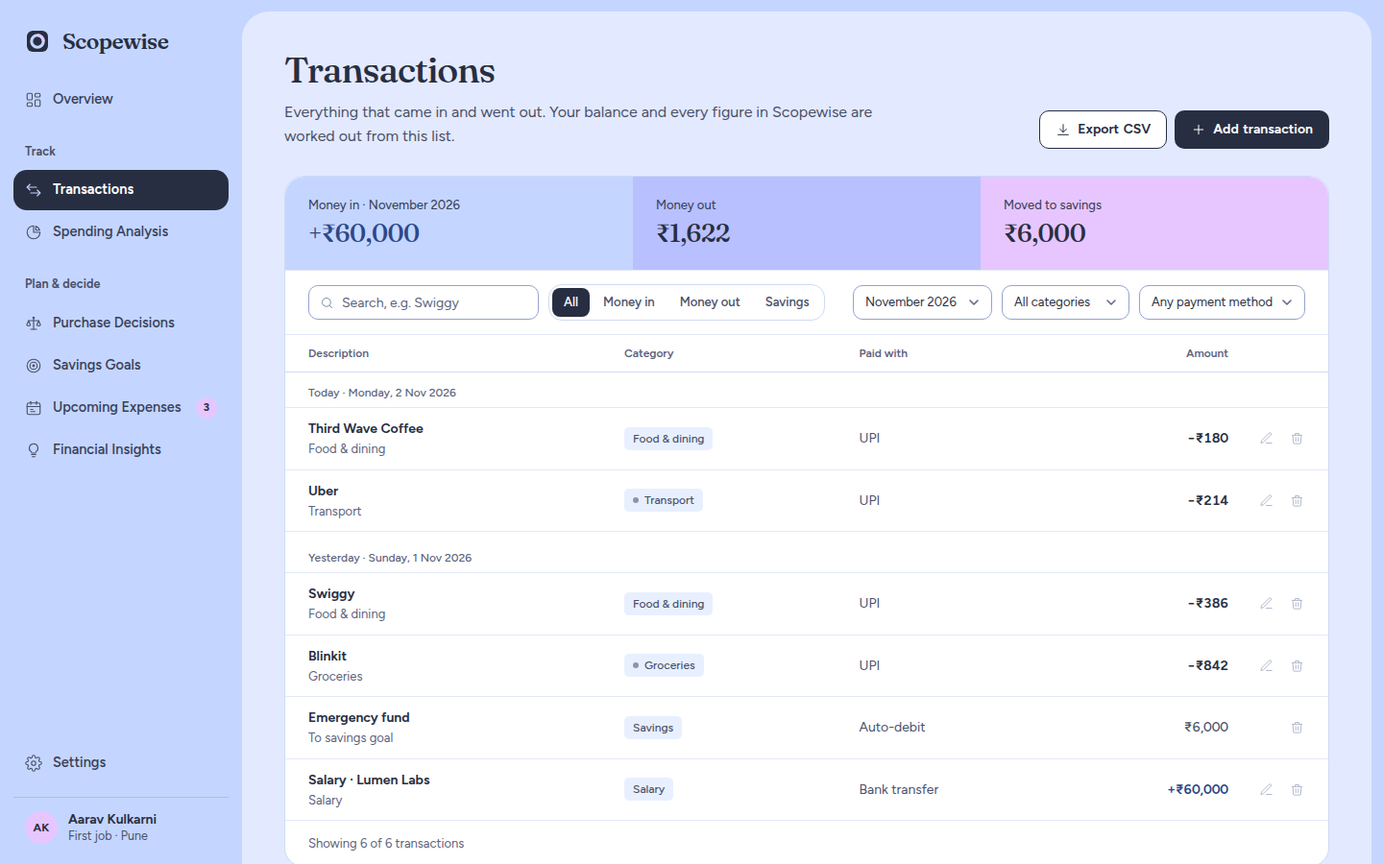
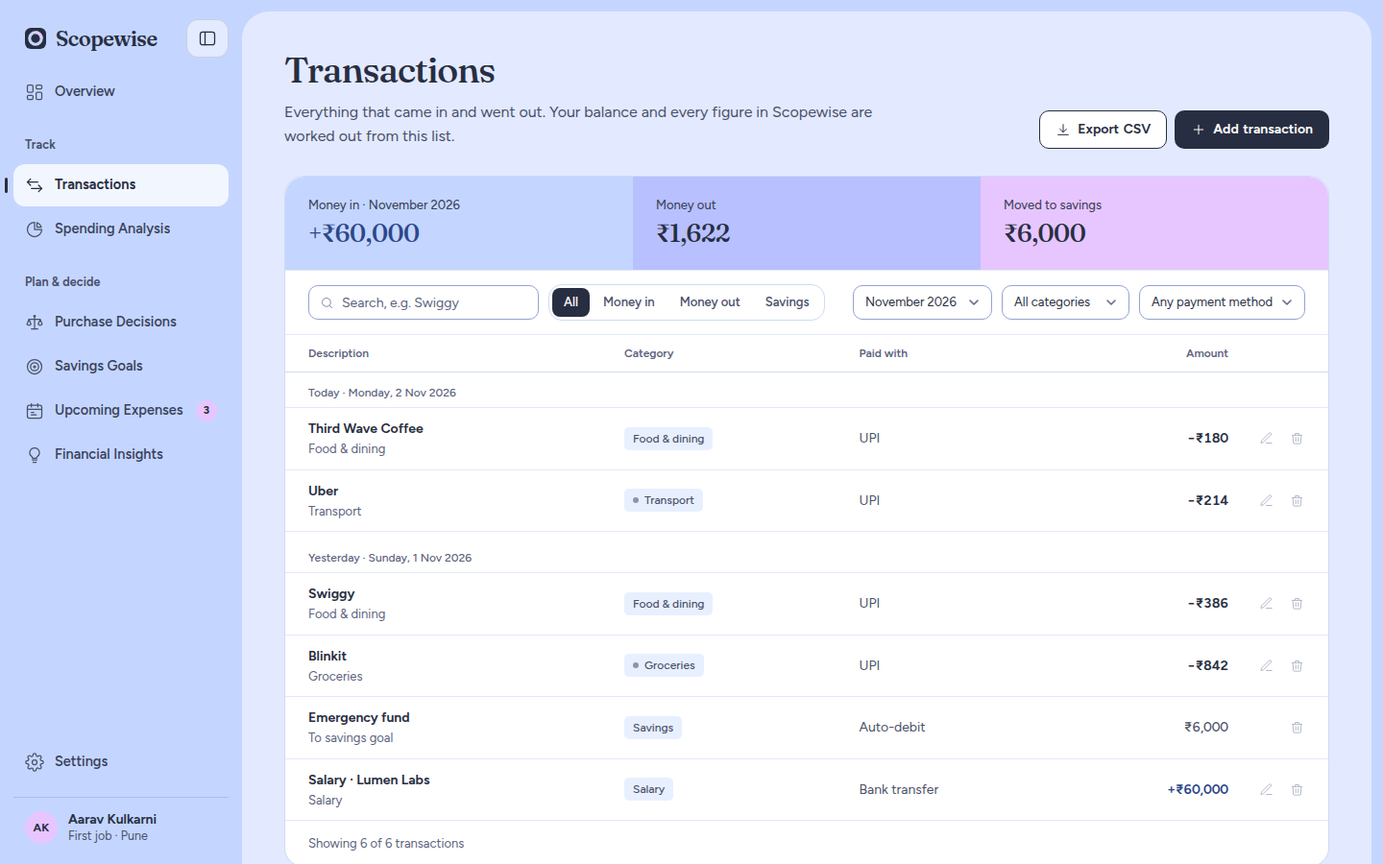
Polish the Purchase Decisions form, fix table overflow and refresh docs and screenshots
- Purchase form: remove the price slider and its hint; align name, price and
  date on one row with category and the date shortcuts under them; turn the
  shortcuts into quiet text options and the what-if into a clean expandable row
- Add a "Choose how to buy it" action under the verdict that jumps to the options
- Past decisions: wrap long names so the table fits the card instead of scrolling
  sideways; drop the sheet's overflow clipping
- README and handbook: describe the collapsible sidebar, current palette and fonts
  and the new Purchase Decisions layout
- Retake all screenshots from the running app and add the collapsed sidebar

diff --git a/css/finance-pages.css b/css/finance-pages.css
@@ -79,14 +79,28 @@ fieldset.field legend { padding: 0; margin-bottom: 8px; }
    - Radii: sheet 20, tiles 12, controls 10, chips 8. Structure comes from tone and space; hairlines
      only between sections and table rows.
    ========================================================================== */
-.pd-sheet { background: var(--surface); border-radius: var(--r-card); overflow: hidden; font-variant-numeric: tabular-nums; }
+.pd-sheet { background: var(--surface); border-radius: var(--r-card); font-variant-numeric: tabular-nums; }
 
 /* The purchase: a compact band. Three columns (what and which kind, how much, when), then the what-if row */
-.pd-side { background: var(--raised); padding: 26px 44px 0; min-width: 0; container-type: inline-size; }
-.pd-form { display: flex; flex-direction: column; gap: 18px; }
-.pd-form-grid { display: grid; grid-template-columns: repeat(3, minmax(0, 1fr)); gap: 20px 36px; align-items: start; }
-.pd-col { display: flex; flex-direction: column; gap: 16px; min-width: 0; }
-@container (max-width: 700px) { .pd-form-grid { grid-template-columns: minmax(0, 1fr); } }
+.pd-side { background: var(--raised); border-radius: var(--r-card) var(--r-card) 0 0; padding: 22px 44px 0; min-width: 0; container-type: inline-size; }
+.pd-form { display: flex; flex-direction: column; gap: 16px; }
+/* Three columns on two aligned rows: name, price and date share the first line; category sits under the name,
+   and the date's shortcuts and hint sit under the date, so the outer columns end at the same height.
+   Label to input is 8px everywhere; rows are 16px apart. */
+.pd-form-grid { display: grid; grid-template-columns: repeat(3, minmax(0, 1fr)); gap: 16px 32px; align-items: start; }
+.pd-name { grid-column: 1; grid-row: 1; }
+.pd-price { grid-column: 2; grid-row: 1; }
+.pd-date { grid-column: 3; grid-row: 1 / span 2; }
+.pd-cat { grid-column: 1; grid-row: 2; }
+@container (max-width: 700px) {
+  .pd-form-grid { grid-template-columns: repeat(2, minmax(0, 1fr)); }
+  .pd-name { grid-column: 1; grid-row: 1; } .pd-cat { grid-column: 2; grid-row: 1; }
+  .pd-price { grid-column: 1; grid-row: 2; } .pd-date { grid-column: 2; grid-row: 2 / span 2; }
+}
+@container (max-width: 440px) {
+  .pd-form-grid { grid-template-columns: minmax(0, 1fr); }
+  :is(.pd-name, .pd-cat, .pd-price, .pd-date) { grid-column: 1; grid-row: auto; }
+}
 .pd-form-title, .pd-sec-title { font-family: var(--font); font-size: 17px; font-weight: 650; letter-spacing: -0.01em; line-height: 1.3; color: var(--text); }
 .pd-form .field-label { font-size: 13px; font-weight: 650; }
 .pd-form .input, .pd-form .select { height: 40px; border-radius: var(--r-control); border: 1px solid var(--border); background-color: var(--surface); font-size: 15px; font-weight: 500; padding-left: 13px; }
@@ -96,7 +110,7 @@ fieldset.field legend { padding: 0; margin-bottom: 8px; }
 .price-input .input { height: 40px; font-family: var(--font); font-size: 17px; font-weight: 650; letter-spacing: -0.015em; }
 .price-input .affix.pre { font-size: 15px; font-weight: 600; left: 13px; color: var(--text-3); }
 .price-input.has-pre .input { padding-left: 28px; }
-.pd-form .field-hint { font-size: 12.5px; }
+.pd-form .field-hint { font-size: 12px; color: var(--text-3); line-height: 1.4; }
 
 /* Sliders: a thin track with its filled part, a navy handle */
 .pd-range, .pd-slider input { -webkit-appearance: none; appearance: none; width: 100%; height: 22px; margin: 4px 0 0; background: transparent; cursor: pointer; touch-action: manipulation; }
@@ -108,26 +122,33 @@ fieldset.field legend { padding: 0; margin-bottom: 8px; }
 :is(.pd-range, .pd-slider input):focus-visible { outline: none; }
 :is(.pd-range, .pd-slider input):focus-visible::-webkit-slider-thumb { box-shadow: 0 0 0 1px var(--navy), 0 0 0 5px rgba(90, 103, 219, 0.35); }
 
-.pd-quick { display: flex; flex-wrap: wrap; gap: 6px; margin-top: 2px; }
+/* Date shortcuts: plain text options that sit under the date they set, one quiet selected state */
+.pd-quick { display: flex; flex-wrap: wrap; align-items: center; gap: 2px; margin: 0 0 -2px -8px; }
 .pd-chip {
-  height: 30px; padding: 0 12px; border-radius: 8px; border: 1px solid var(--border); background: var(--surface);
-  font-size: 13px; font-weight: 550; color: var(--text-2); touch-action: manipulation;
-  transition: background-color var(--dur) var(--ease), border-color var(--dur) var(--ease), color var(--dur) var(--ease);
+  height: 28px; padding: 0 8px; border-radius: 8px; border: 0; background: transparent;
+  font-size: 13px; font-weight: 550; color: var(--accent-ink); touch-action: manipulation;
+  transition: background-color var(--dur) var(--ease), color var(--dur) var(--ease);
 }
-.pd-chip:hover { border-color: var(--control); color: var(--text); }
-.pd-chip[aria-pressed="true"] { background: var(--navy); border-color: var(--navy); color: #fff; }
-.pd-adjust { border-top: 1px solid var(--border); }
-.pd-adjust > summary { font-size: 13.5px; font-weight: 650; padding: 13px 0; }
-.pd-adjust .disc-body { padding-bottom: 20px; }
+.pd-chip:hover { background: var(--peri-100); }
+.pd-chip[aria-pressed="true"] { background: var(--peri-150); color: var(--navy); font-weight: 650; }
+.pd-chip:focus-visible { outline: 2px solid var(--accent); outline-offset: 1px; }
+
+/* The what-if: a quiet row that opens in place; no rule above it */
+.pd-adjust { border-top: 0; }
+.pd-adjust > summary { display: flex; align-items: center; gap: 8px; font-size: 13.5px; font-weight: 650; padding: 12px 0 14px; color: var(--accent-ink); }
+.pd-adjust > summary > span { display: inline-flex; align-items: baseline; gap: 8px; }
+.pd-adjust .sum-sub { margin-left: 0; color: var(--text-3); }
+.pd-adjust > summary > svg { margin-left: auto; }
+.pd-adjust .disc-body { padding: 2px 0 20px; }
 .pd-adjust .form-grid { grid-template-columns: repeat(auto-fit, minmax(150px, 1fr)); gap: 14px 20px; }
 .pd-adjust .input { height: 38px; font-size: 14px; }
 .pd-reset { margin-top: 14px; font-size: 13px; color: var(--accent-ink); }
 
 /* The results column: sections divided by one rule, nothing boxed */
-.pd-main { display: flex; flex-direction: column; min-width: 0; padding: 36px 44px 44px; }
+.pd-main { display: flex; flex-direction: column; min-width: 0; padding: 32px 44px 40px; }
 .pd-main > section { container-type: inline-size; }
-.pd-main > section + section { margin-top: 36px; padding-top: 36px; border-top: 1px solid var(--rule); }
-.pd-main > section[hidden] + section { margin-top: 36px; }
+.pd-main > section + section { margin-top: 32px; padding-top: 32px; border-top: 1px solid var(--rule); }
+.pd-main > section[hidden] + section { margin-top: 32px; }
 .pd-sec-head { display: flex; align-items: baseline; justify-content: space-between; flex-wrap: wrap; gap: 4px 20px; margin-bottom: 20px; }
 .pd-sec-desc { font-size: 13.5px; color: var(--text-3); margin: 0; max-width: none; line-height: 1.5; }
 
@@ -140,6 +161,10 @@ fieldset.field legend { padding: 0; margin-bottom: 8px; }
 .pd-answer .verdict-tag.caution, .pd-answer .verdict-tag.alert { background: var(--lilac-100); color: var(--lilac-700); }
 .pd-verdict-title { font-family: var(--font-display); font-size: 34px; font-weight: 500; letter-spacing: -0.022em; line-height: 1.12; margin-top: 14px; max-width: 24ch; text-wrap: balance; color: var(--navy); }
 .pd-verdict-sub { font-size: 15px; color: var(--text-2); margin-top: 10px; max-width: 62ch; line-height: 1.6; text-wrap: pretty; }
+.pd-answer-cta { display: flex; align-items: center; flex-wrap: wrap; gap: 8px 16px; margin-top: 18px; }
+.pd-answer-cta .btn { height: 40px; padding: 0 18px; border-radius: var(--r-control); }
+.pd-answer-best { font-size: 13.5px; color: var(--text-2); }
+.pd-answer-best b { color: var(--text); font-weight: 650; }
 .pd-answer-fig { display: flex; flex-direction: column; justify-content: center; min-width: 0; }
 .pd-answer-fig .k { font-size: 13px; font-weight: 550; color: var(--text-2); line-height: 1.4; }
 .pd-answer-fig .v { font-family: var(--font-display); font-size: 52px; font-weight: 500; letter-spacing: -0.03em; line-height: 1.05; margin-top: 8px; white-space: nowrap; color: var(--navy); }
@@ -255,6 +280,14 @@ fieldset.field legend { padding: 0; margin-bottom: 8px; }
 .pd-hist .table th:last-child, .pd-hist .table td:last-child { padding-right: 0; }
 .pd-hist .cell-title { font-size: 14px; font-weight: 600; }
 .pd-hist .cell-sub { display: block; font-weight: 450; font-size: 12px; color: var(--text-3); margin-top: 2px; }
+/* Past decisions fits the card instead of scrolling inside it: long names wrap, columns share the width */
+.pd-hist { overflow: visible; }
+.pd-hist .table { width: 100%; table-layout: auto; }
+.pd-hist .table tbody th, .pd-hist .table td { white-space: normal; overflow-wrap: anywhere; }
+.pd-hist .table td.r, .pd-hist .table th.r, .pd-hist .table td:has(.badge) { white-space: nowrap; overflow-wrap: normal; }
+.pd-hist .table thead th { white-space: normal; }
+@media (min-width: 761px) { .pd-hist .cell-title { width: 36%; } }
+@media (min-width: 761px) and (max-width: 900px) { .pd-hist .table th, .pd-hist .table td { padding-left: 8px; padding-right: 8px; } }
 .pd-hist-empty .empty { padding: 24px 0; text-align: left; }
 .pd-hist-empty .empty-icon { margin: 0 0 12px; }
 .pd-hist-empty .empty-text { margin-left: 0; }

diff --git a/js/pages/decisions.js b/js/pages/decisions.js
@@ -66,7 +66,7 @@ SW.pages = SW.pages || {};
   }
 
   /* ---------- The answer ---------- */
-  function answerHTML(r) {
+  function answerHTML(r, P) {
     const avg = S.categoryAverage(inp.category);
     const catLine = r.price && avg > 0 ? `You usually spend ${F.inr(avg)} a month on ${inp.category.toLowerCase()}; this is ${r.price >= avg * 1.95 ? `${(r.price / avg).toFixed(1).replace(/\.0$/, '')}× that` : F.pct(r.price / avg) + ' of it'}.`
       : r.price ? `You haven’t spent on ${inp.category.toLowerCase()} in the last three months${S.cat(inp.category).essential ? ', and it counts as essential' : ''}.` : '';
@@ -78,6 +78,7 @@ SW.pages = SW.pages || {};
         <span class="verdict-tag ${r.tone}">${I(TAG_ICON[r.tone], 15)}${r.label}</span>
         <h2 class="pd-verdict-title" id="ans-h">${TITLE[r.key](r)}</h2>
         <p class="pd-verdict-sub">${r.reasons[0]}${catLine ? ` ${catLine}` : ''}</p>
+        <div class="pd-answer-cta"><button type="button" class="btn btn-primary" data-jump="cmp-h">Choose how to buy it</button><span class="pd-answer-best">Best fit: <b>${P.names[P.rec]}</b></span></div>
       </div>
       <div class="pd-answer-fig${short ? ' short' : ''}">
         <span class="k">Left until payday if you buy it today</span>
@@ -234,32 +235,23 @@ SW.pages = SW.pages || {};
   }
 
   function formHTML() {
-    const sliderMax = Math.max(50000, Math.ceil((inp.price || 0) * 1.5 / 1000) * 1000);
     const payday = S.nextPayday();
     const cats = SEED.CATEGORIES.map(c => c.id);
     return `<form class="pd-form" data-form autocomplete="off" onsubmit="return false" aria-labelledby="form-h">
       <h2 class="pd-form-title" id="form-h">The purchase</h2>
       <div class="pd-form-grid">
-        <div class="pd-col">
-          <label class="field"><span class="field-label">What are you buying?</span><input class="input" name="name" value="${F.esc(inp.name)}" placeholder="e.g. Concert tickets…" /></label>
-          <label class="field"><span class="field-label">Category</span><select class="select" name="category">${cats.map(c => `<option ${c === inp.category ? 'selected' : ''}>${c}</option>`).join('')}</select></label>
-        </div>
-        <div class="pd-col">
-          <label class="field"><span class="field-label">Price</span>
-            <div class="input-affix has-pre price-input"><span class="affix pre">₹</span><input class="input num" name="price" inputmode="numeric" value="${inp.price ? F.num(inp.price) : ''}" placeholder="0" data-money aria-describedby="price-hint" /></div>
-            <input type="range" class="pd-range" min="0" max="${sliderMax}" step="100" value="${Math.min(inp.price || 0, sliderMax)}" style="--p:${fill(Math.min(inp.price || 0, sliderMax), 0, sliderMax)}" data-price-range aria-label="Price" aria-valuetext="${F.inr(inp.price || 0)}" />
-            <span class="field-hint" id="price-hint">Include delivery, fees or anything you’d pay with it.</span></label>
-        </div>
-        <div class="pd-col">
-          <div class="field"><label class="field-label" for="pd-date">When would you like it?</label>
-            <input class="input" type="date" id="pd-date" name="date" value="${inp.date}" min="${S.TODAY}" aria-describedby="date-hint" />
-            <div class="pd-quick" role="group" aria-label="Quick dates">
-              <button type="button" class="pd-chip" data-date="${S.TODAY}" aria-pressed="${inp.date === S.TODAY}">Today</button>
-              <button type="button" class="pd-chip" data-date="${payday}" aria-pressed="${inp.date === payday}">Payday, ${F.short(payday)}</button>
-              <button type="button" class="pd-chip" data-date="${F.addDays(S.TODAY, 60)}" aria-pressed="${inp.date === F.addDays(S.TODAY, 60)}">In 2 months</button>
-            </div>
-            <span class="field-hint" id="date-hint">A later date shapes the “Wait” plan.</span></div>
-        </div>
+        <label class="field pd-name"><span class="field-label">What are you buying?</span><input class="input" name="name" value="${F.esc(inp.name)}" placeholder="e.g. Concert tickets…" /></label>
+        <label class="field pd-cat"><span class="field-label">Category</span><select class="select" name="category">${cats.map(c => `<option ${c === inp.category ? 'selected' : ''}>${c}</option>`).join('')}</select></label>
+        <label class="field pd-price"><span class="field-label">Price</span>
+          <div class="input-affix has-pre price-input"><span class="affix pre">₹</span><input class="input num" name="price" inputmode="numeric" value="${inp.price ? F.num(inp.price) : ''}" placeholder="0" data-money /></div></label>
+        <div class="field pd-date"><label class="field-label" for="pd-date">When would you like it?</label>
+          <input class="input" type="date" id="pd-date" name="date" value="${inp.date}" min="${S.TODAY}" aria-describedby="date-hint" />
+          <div class="pd-quick" role="group" aria-label="Quick dates">
+            <button type="button" class="pd-chip" data-date="${S.TODAY}" aria-pressed="${inp.date === S.TODAY}">Today</button>
+            <button type="button" class="pd-chip" data-date="${payday}" aria-pressed="${inp.date === payday}">Payday, ${F.short(payday)}</button>
+            <button type="button" class="pd-chip" data-date="${F.addDays(S.TODAY, 60)}" aria-pressed="${inp.date === F.addDays(S.TODAY, 60)}">In 2 months</button>
+          </div>
+          <span class="field-hint" id="date-hint">A later date shapes the “Wait” plan.</span></div>
       </div>
       <details class="disclosure pd-adjust" ${changed() ? 'open' : ''}>
         <summary><span>Try a what-if<span class="sum-sub">Balance, bills, savings</span></span>${I('chevronDown', 18)}</summary>
@@ -312,7 +304,7 @@ SW.pages = SW.pages || {};
       <div class="pd">
         <aside class="pd-side">${formHTML()}</aside>
         <div class="pd-main">
-          <section class="pd-answer ${r.tone || ''}" data-answer aria-live="polite" aria-labelledby="ans-h">${answerHTML(r)}</section>
+          <section class="pd-answer ${r.tone || ''}" data-answer aria-live="polite" aria-labelledby="ans-h">${answerHTML(r, P)}</section>
           <section class="pd-fit" aria-labelledby="snap-h">
             <div class="pd-sec-head"><h2 class="pd-sec-title" id="snap-h">How it fits</h2><p class="pd-sec-desc">Your balance, less what’s already promised before payday${r.price ? ', and what buying it changes' : ''}</p></div>
             <div data-snap>${barHTML(r)}</div>
@@ -340,7 +332,7 @@ SW.pages = SW.pages || {};
     const P = plans(r);
     const ans = root.querySelector('[data-answer]');
     ans.className = `pd-answer ${r.price ? r.tone : ''}`;
-    ans.innerHTML = answerHTML(r);
+    ans.innerHTML = answerHTML(r, P);
     root.querySelector('[data-snap]').innerHTML = barHTML(r);
     root.querySelector('[data-ledger]').innerHTML = ledgerHTML(r);
     root.querySelector('[data-break]').hidden = !r.price;
@@ -365,20 +357,15 @@ SW.pages = SW.pages || {};
     if (r.price) { drawWaterfall(r); drawProjection(r, plans(r)); }
     form.addEventListener('input', e => {
       const t = e.target;
-      if (t.matches('[data-price-range]')) {
-        inp.price = +t.value;
-        form.price.value = inp.price ? F.num(inp.price) : '';
-        t.setAttribute('aria-valuetext', F.inr(inp.price));
-        t.style.setProperty('--p', fill(+t.value, +t.min, +t.max));
-      } else if (t.name === 'date') {
+      if (t.name === 'date') {
         inp.date = t.value && t.value >= S.TODAY ? t.value : S.TODAY;
         plan = null;
       } else if (t.name) {
         if (!['name', 'price', 'category'].includes(t.name)) ov[t.name] = true;
         inp[t.name] = t.name === 'name' || t.name === 'category' ? t.value : t.name === 'daysLeft' ? Math.max(1, +t.value || 1) : ui.money(t.value);
-        if (t.name === 'price') { const rg = form.querySelector('[data-price-range]'); if (+rg.max < inp.price) rg.max = Math.ceil(inp.price * 1.5 / 1000) * 1000; rg.value = inp.price; rg.style.setProperty('--p', fill(+rg.value, +rg.min, +rg.max)); }
+       
       }
-      if (t.name === 'price' || t.matches('[data-price-range]')) saveMonthly = null;
+      if (t.name === 'price') saveMonthly = null;
       update();
     });
     form.addEventListener('change', e => { if (e.target.name === 'category') { inp.category = e.target.value; update(); } });
@@ -389,6 +376,7 @@ SW.pages = SW.pages || {};
       plan = 'save';
       update();
     });
+    ui.on(root, 'click', '[data-jump]', (e, b) => { const t = root.querySelector('#' + b.dataset.jump); if (t) t.scrollIntoView({ behavior: matchMedia('(prefers-reduced-motion: reduce)').matches ? 'auto' : 'smooth', block: 'start' }); });
     ui.on(root, 'click', '[data-pick]', (e, b) => { plan = b.dataset.pick; update(plan); });
     ui.on(root, 'click', '.pd-plan', (e, t) => {
       if (e.target.closest('input, label, button')) return;

diff --git a/docs/handbook/05-purchase-decisions.md b/docs/handbook/05-purchase-decisions.md
@@ -16,11 +16,11 @@ This is the heart of Scopewise. On screen the page title is **Can I afford it?**
 
 ## 2. Page layout
 
-The page is a decision workspace: you describe the purchase on the left, and the right answers from your own numbers in four parts, redrawing as you type.
+The page is a decision workspace: you describe the purchase in a band at the top, and the sections below answer from your own numbers, redrawing as you type. Nothing on the page scrolls inside itself; it simply grows, and the browser scrolls the page.
 
 1. **Header:** "Purchase Decisions" and a short explanation
-2. **The purchase** (left, stays in view as you scroll): *What are you buying?*, *Category*, *Price*, *When would you like it?* and **Try a what-if**
-3. **The answer** (top right): verdict tag, a short headline, one sentence of reasons including how the price compares with what you usually spend in that category, and the big figure **Left until payday if you buy it today** (lilac when it falls below your cushion)
+2. **The purchase** (top band, three columns): *What are you buying?* and *Category*; *Price*; *When would you like it?* with its shortcuts (**Today**, **Payday**, **In 2 months**). **Try a what-if** is a quiet row beneath that opens in place
+3. **The answer** (below the form): verdict tag, a short headline, one sentence of reasons including how the price compares with what you usually spend in that category, a **Choose how to buy it** button (it scrolls to the options, and names the best fit), and the big figure **Left until payday if you buy it today** (lilac when it falls below your cushion)
 4. **Available to spend:** Current balance − Committed before payday = Available to spend, then the purchase, with the money bar underneath
 5. **Financial impact:** a waterfall chart (Balance − Bills − Essentials − Savings = Available − Purchase = Left, with your safety cushion as a dashed line) beside the impact table and **Why this answer**
 6. **Alternative plans:** buy now, delay or save first as three columns (the chosen one has a periwinkle rule), a chart of your projected balance for each plan, and the buttons that save your decision
@@ -31,8 +31,7 @@ The page is a decision workspace: you describe the purchase on the left, and the
 
 ### 3.1 Item and price
 - **What it does:** describes the purchase. It starts with an example: *Noise-cancelling headphones, ₹14,990*.
-- **How to use it:** type the name, then type the price in the large box or drag the slider under it. The slider goes up to ₹50,000, or further if you type a bigger price.
-- **Good to know:** the hint says to include delivery, fees or anything you'd pay with it.
+- **How to use it:** type the name, pick a category, then type the price in the box. Include delivery, fees or anything you'd pay with it.
 
 ### 3.2 The running sum
 The whole check reads as one sum, left to right:

diff --git a/README.md b/README.md
@@ -42,7 +42,8 @@ Scopewise shows what you can spend once the money already promised elsewhere is 
 
 Also included:
 - **Private by design**: all data is stored in your browser's `localStorage`. Nothing is sent to a server, and there's no sign-in.
-- **Responsive layout**: a collapsible sidebar and stacked layouts for smaller screens.
+- **Collapsible sidebar**: collapse the navigation to an icon rail (with tooltips) or expand it again. The choice is remembered in your browser, tablets get the rail automatically, and on phones it becomes a drawer opened from the top bar.
+- **Responsive layout**: page content uses the width beside the sidebar, and layouts stack on smaller screens.
 - **Accessibility**: a skip link, ARIA labels and live regions, keyboard-focusable controls, and `prefers-reduced-motion` support.
 - **Indian Rupee formatting**: amounts use the `en-IN` locale (for example ₹1,50,000).
 
@@ -59,6 +60,8 @@ All screenshots are from the running application with its built-in example data.
 | ![Spending Analysis](docs/screenshots/spending.png) | ![Transactions](docs/screenshots/transactions.png) |
 | **Overview** | **Settings** |
 | ![Overview](docs/screenshots/overview.png) | ![Settings](docs/screenshots/settings.png) |
+| **Collapsed sidebar** | |
+| ![Savings Goals with the sidebar collapsed to an icon rail](docs/screenshots/sidebar-collapsed.png) | |
 
 ## Tech stack
 
@@ -149,7 +152,7 @@ The project doesn't have an automated test suite yet. Before each release it's c
 for f in js/*.js js/pages/*.js; do node --check "$f"; done
 ```
 
-Each of the eight pages was also loaded in a headless browser to confirm that it renders without console errors.
+Each of the eight pages was also loaded in a headless browser at desktop, tablet and phone widths to confirm that it renders without console errors, horizontal overflow or scroll areas inside the page. Sidebar collapse and expand, and the Purchase Decisions inputs, what-if and plan options, were exercised there too.
 
 ## Using the app
 

diff --git a/docs/handbook/00-blueprint.md b/docs/handbook/00-blueprint.md
@@ -73,4 +73,4 @@ Short questions and answers that come up often.
 
 ## Colours in page chapters
 
-Every page uses the same palette on white and a cool off-white ground `#F6F7FA`, with navy `#282E42` text and the Manrope font. **Navy** is for text, money and the one primary button (white text). **Periwinkle** `#C4D6FF` is for selected states, focus rings and each screen's main data (deeper `#4D73CF` for marks and `#2D4789` for text; positive figures use the text step). **Lavender** `#B8C0FF` is for comparisons, the savings layer of the money bar and avatars. **Lilac** `#E7C6FF` is rare: the purchase being weighed and anything that needs attention (`#9C45AA` for marks, `#7B2C88` for text). On the planning pages (Purchase Decisions, Savings Goals, Upcoming Expenses, Financial Insights), structure comes from space, type and thin rules rather than cards. Chapters say "navy", "periwinkle", "lavender" and "lilac". There's no red or green, so always name the meaning in words too.
+Every page uses the same palette on white and a pale periwinkle ground `#E3EAFF` and a periwinkle sidebar, with navy `#282E42` text, Fraunces for titles and headline figures, and Figtree for everything else. **Navy** is for text, money and the one primary button (white text). **Periwinkle** `#C4D6FF` is for selected states, focus rings and each screen's main data (deeper `#4D73CF` for marks and `#2D4789` for text; positive figures use the text step). **Lavender** `#B8C0FF` is for comparisons, the savings layer of the money bar and avatars. **Lilac** `#E7C6FF` is rare: the purchase being weighed and anything that needs attention (`#9C45AA` for marks, `#7B2C88` for text). On the planning pages (Purchase Decisions, Savings Goals, Upcoming Expenses, Financial Insights), structure comes from space, type and thin rules rather than cards. Chapters say "navy", "periwinkle", "lavender" and "lilac". There's no red or green, so always name the meaning in words too.

diff --git a/docs/handbook/01-core-concepts.md b/docs/handbook/01-core-concepts.md
@@ -6,7 +6,7 @@ Read this chapter first. It explains the parts that every page shares.
 
 | Area | What it is |
 |---|---|
-| **Sidebar** (left) | The Scopewise logo, which links to Overview, plus all pages in three groups, your name and life stage at the bottom |
+| **Sidebar** (left) | The Scopewise logo, which links to Overview, a button to collapse it, plus all pages in three groups, your name and life stage at the bottom. Collapsed, it becomes a narrow icon rail with a tooltip for each item, and the page uses the freed width. Your choice is remembered; tablets start collapsed |
 | **Top bar** (phones and small screens) | A ☰ menu button that opens the sidebar as a drawer. Tap outside it or press `Esc` to close it |
 | **Main area** | The page you're on |
 | **Pop-up windows** | Forms such as Add transaction or New goal, and "Are you sure?" confirmations. Close them with ✕, **Cancel**, `Esc` or by clicking outside |
@@ -106,7 +106,7 @@ One palette is used on every page.
 | **Lavender** `#B8C0FF` | Secondary accents: comparisons (such as last month's bars in Spending Analysis), the savings layer of the money bar, avatars and selected text |
 | **Lilac** `#E7C6FF` | Used sparingly: the purchase you're weighing on Purchase Decisions, and anything that needs attention (overdue, due within 3 days, behind plan, past the deadline, a plan that's short, a big rise in a non-essential category). Marks use `#9C45AA` and lilac text uses `#7B2C88` |
 | **White** `#FFFFFF` | Cards, panels and pop-up windows |
-| **Cool off-white** `#F6F7FA` | The page background and the sidebar |
+| **Pale periwinkle** `#E3EAFF` | The page background. The sidebar and the frame around the page use periwinkle `#C4D6FF` |
 
 In the money bar, committed money is shown in navy steps: bills in dark navy and everyday essentials in a mid navy-grey. Savings are lavender and free to spend is periwinkle.
 
